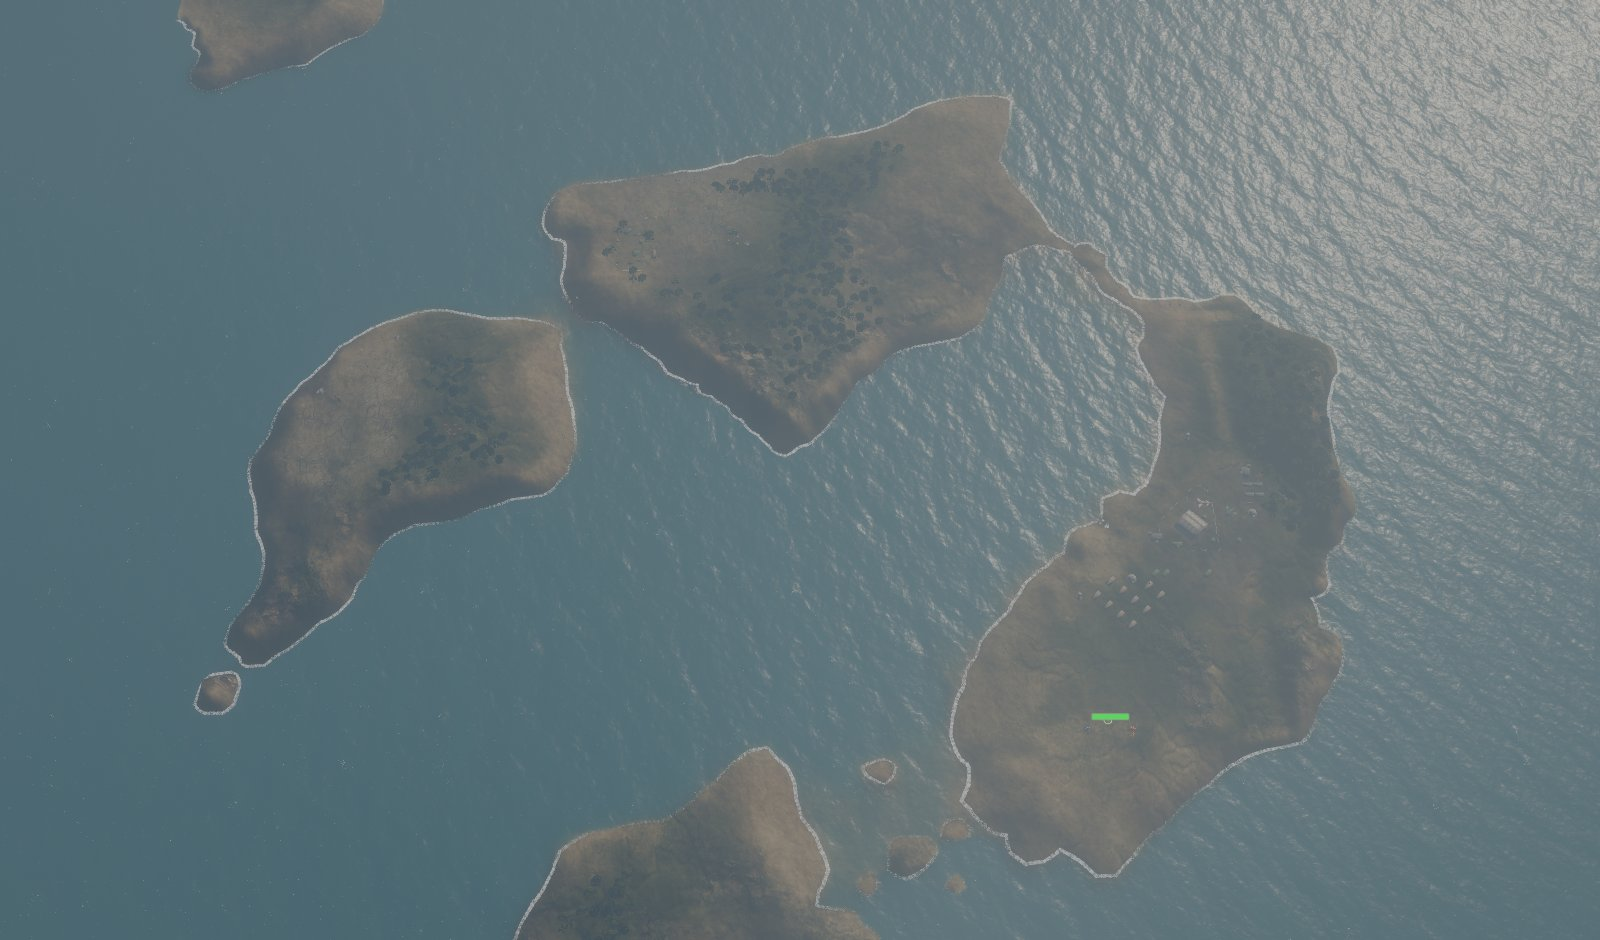
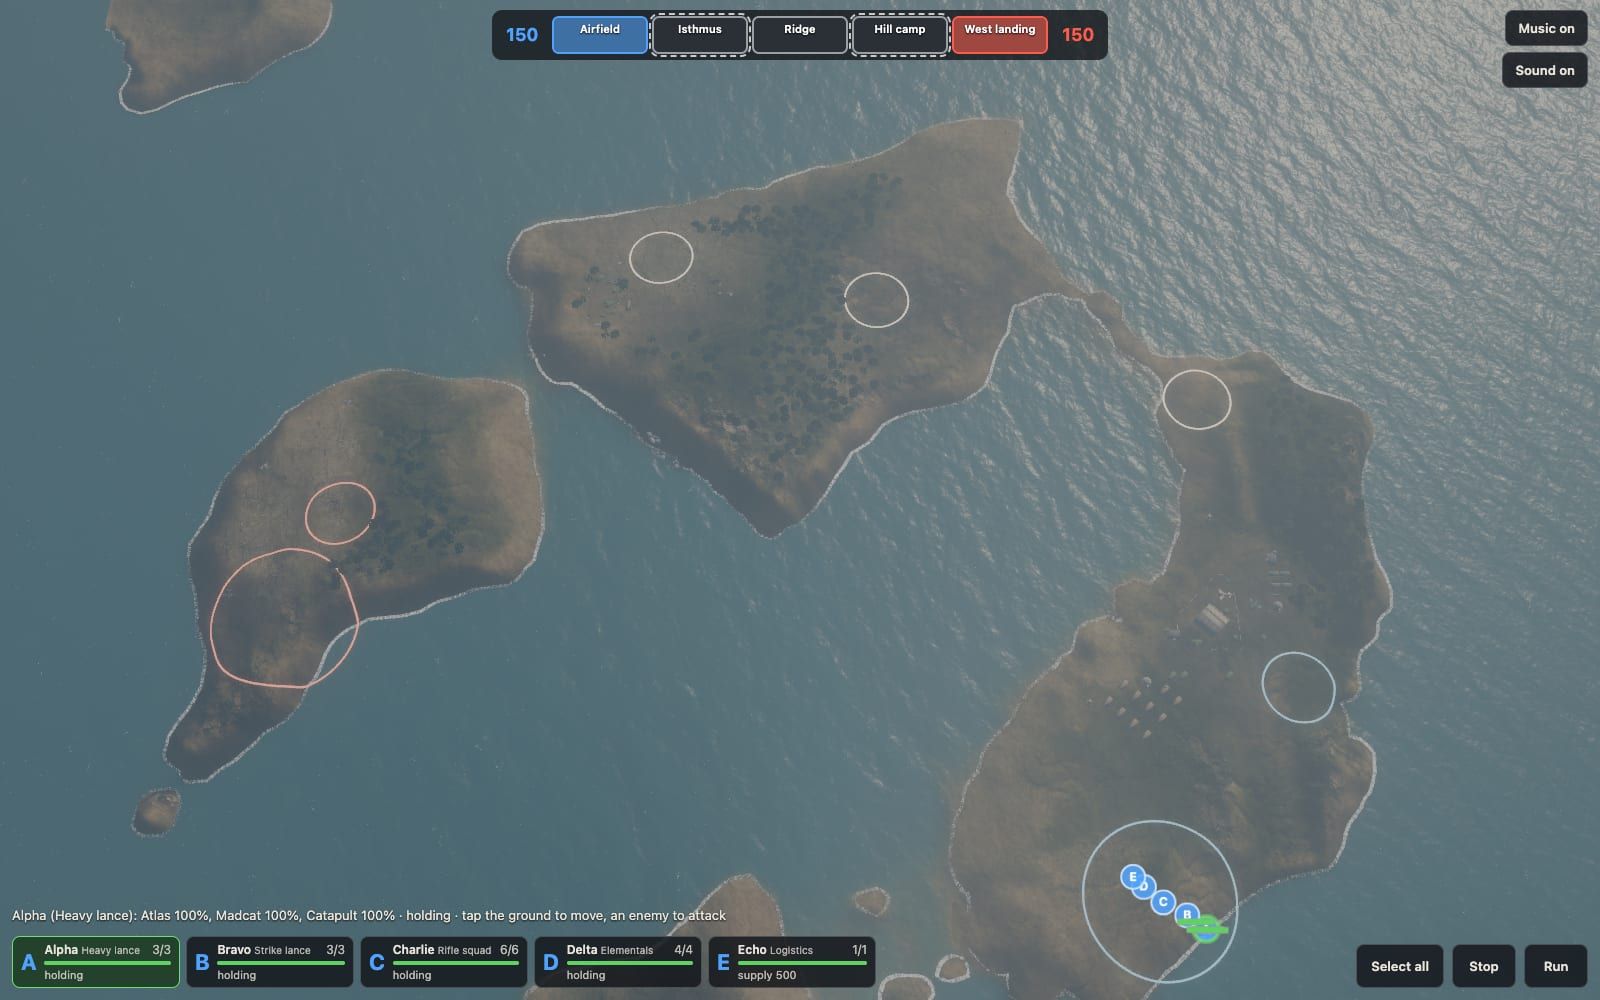
README: the game as it is now, with new screenshots
The intro describes the Advance and Secure game; new screenshots show a fight
at the airfield with the HUD, the fight for the Isthmus, the Karnov setting
infantry down, dug-in infantry, a forward base, Build FOB's red rings, and the
islands with their capture points. The old lance-only pictures are gone (the
close fight in Combat stays). Controls mention Airlift, Build FOB, Music and
Sound; stale notes about the lance and missing infantry models are fixed.

diff --git a/README.md b/README.md
@@ -1,8 +1,11 @@
 # Mech Command Web
 
-A small MechCommander 2-style skirmish for iPad and desktop browsers, reusing
-the original game's maps, buildings, mechs and voices. No native code: the original
-data is converted offline into glTF, WebP, PNG and JSON.
+A small real-time tactics game for iPad and desktop browsers, built from
+MechCommander 2's maps, buildings, mechs, vehicles, infantry, voices and music.
+You command squads of mechs, infantry and a supply truck in an Advance and
+Secure match after the game *Squad*: take the capture points in order, fly
+infantry in to hold them, and build forward bases to fight from. No native
+code: the original data is converted offline into glTF, WebP, PNG, JSON and AAC.
 
 - **The game** (`index.html`) draws with WebGPU: the FFT sea and physically based
   sky from the dreadnought game, MC2's terrain, buildings, trees and mechs, and
@@ -10,14 +13,16 @@ data is converted offline into glTF, WebP, PNG and JSON.
 - **The viewer** (`viewer.html`) is the earlier three.js/WebGL2 version. The game
   sends any browser without WebGPU there automatically.
 
-![The player's lance against the mission's vehicles: LRM volleys, lasers and PPCs](docs/screenshots/battle.jpg)
+![Alpha lance's lasers on a Liao lance among the airfield's buildings, with the match's HUD: tickets and capture points along the top, squad cards and orders along the bottom](docs/screenshots/match.jpg)
 
 | | |
 |---|---|
-| ![The lance on the first island](docs/screenshots/lance.jpg) | ![The lance by the airfield](docs/screenshots/airfield.jpg) |
-| ![The mission's islands from above](docs/screenshots/overview.jpg) | ![After the battle: burning wrecks](docs/screenshots/aftermath.jpg) |
+| ![The fight for the Isthmus, with a Karnov coming in to land](docs/screenshots/isthmus.jpg) | ![The Karnov setting Charlie's riflemen down by the Isthmus](docs/screenshots/airlift.jpg) |
+| ![Charlie's riflemen and Delta's Elementals dug in behind sandbags](docs/screenshots/dug-in.jpg) | ![A forward base: HQ tent, sandbags, autocannon turret, and the supply truck that built it](docs/screenshots/forward-base.jpg) |
+| ![Build FOB: red rings show where a forward base can't go](docs/screenshots/build-fob.jpg) | ![The islands from above: five capture points from your base (bottom right) to theirs](docs/screenshots/overview.jpg) |
 
-Screenshots are from headless Chrome on a Mac, at full render scale.
+Screenshots are from headless Chrome on a Mac, at full render scale, most of
+them with both sides played by the AI.
 
 ## Quick start
 
@@ -78,13 +83,15 @@ long-press (or shift-click) to add one to the selection or take it out, or use
 **Select all**; tap the ground to send the selection there, or an enemy to attack
 it. A second tap on a selected squad's card looks at it, and a tap on a point in
 the top bar looks at the point. **Stop** halts them (and drops an attack order)
-and **Run** makes mechs run.
+and **Run** makes mechs run. **Airlift** and **Build FOB** appear when the
+selection has infantry or a supply truck: press one, then tap the ground.
+**Music** and **Sound** (top right) turn each on or off.
 
 ### Advance and Secure
 
 The game plays a scenario (`scenarios/*.json`, chosen by map), modelled on the
 game *Squad*. You command squads in real time: two lances of mechs, a rifle
-squad and a squad of Elementals (power armour). The Liao garrison has two
+squad, a squad of Elementals (power armour) and a supply truck. The Liao garrison has two
 lances, an armour squad, LRM carriers, riflemen and Elementals, run by a simple
 AI commander.
 
@@ -159,15 +166,15 @@ one it must keep with the rest, stands its LRM carriers off behind the attack,
 flies its infantry to far or cut-off points, and pulls badly hurt squads back to
 reinforce. Played against itself, a match
 runs about 12 minutes and goes either way. `?scenario=none` shows the mission's
-own units instead, and `?speed=4` runs the world four times as fast (for
-testing).
+own units instead (your lance is then its three mechs plus an Atlas and a
+Madcat), and `?speed=4` runs the world four times as fast (for testing).
 
-Your lance is the mission's three mechs plus the Atlas and Madcat. Orders are
-routed over MC2's movement map (`src/sea/sim/move-grid.ts`): A* over its
+Orders are routed over MC2's movement map (`src/sea/sim/move-grid.ts`): A* over its
 300×300 cells of 8.5 m with the engine's rules (no off-map cells or deep water,
 shallow water and passable ground only, forest about 2.8× the cost of clear
 ground), then pulled tight so routes only turn where something is in the way. A
-group's mechs take formation slots about the point, nearest mech to the middle.
+squad's members take formation slots about the point, the nearest in the middle,
+and squads sent together spread out side by side.
 
 ### Combat
 
@@ -316,8 +323,9 @@ Checks done against mc2_01:
 
 ## Known gaps
 
-- `alariq/mc2srcdata` has no models for some objects (a few rocks, mech wreck pieces,
-  nav markers, infantry, the outhouse). The converter skips them and lists them.
+- `alariq/mc2srcdata` lacks a few objects' models (some rocks, mech wreck pieces, nav
+  markers). The converter skips any it can't find and lists them; mc2_01 and its
+  scenario need none of them.
 - Vehicles drive, but their turrets don't turn: the converter flattens each
   vehicle into one node, though the files name a turret node (`sc_turret`). Prop
   animations (flags, radar) are not converted.
